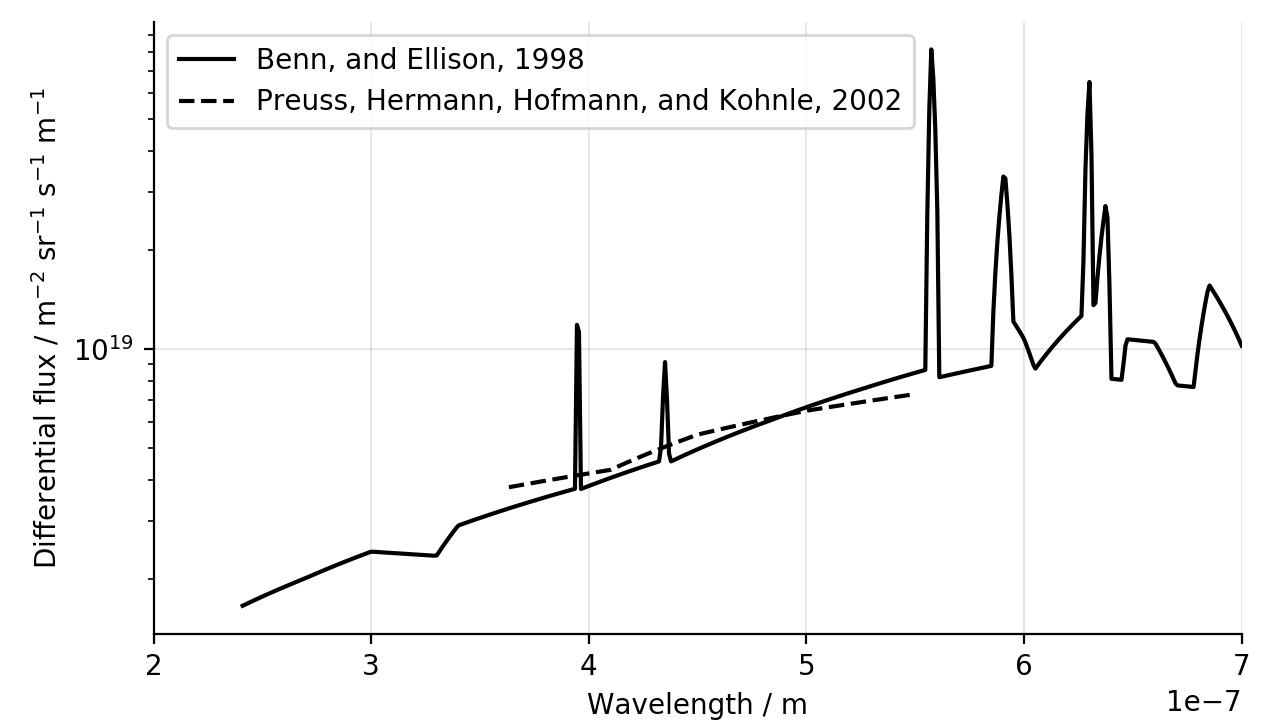
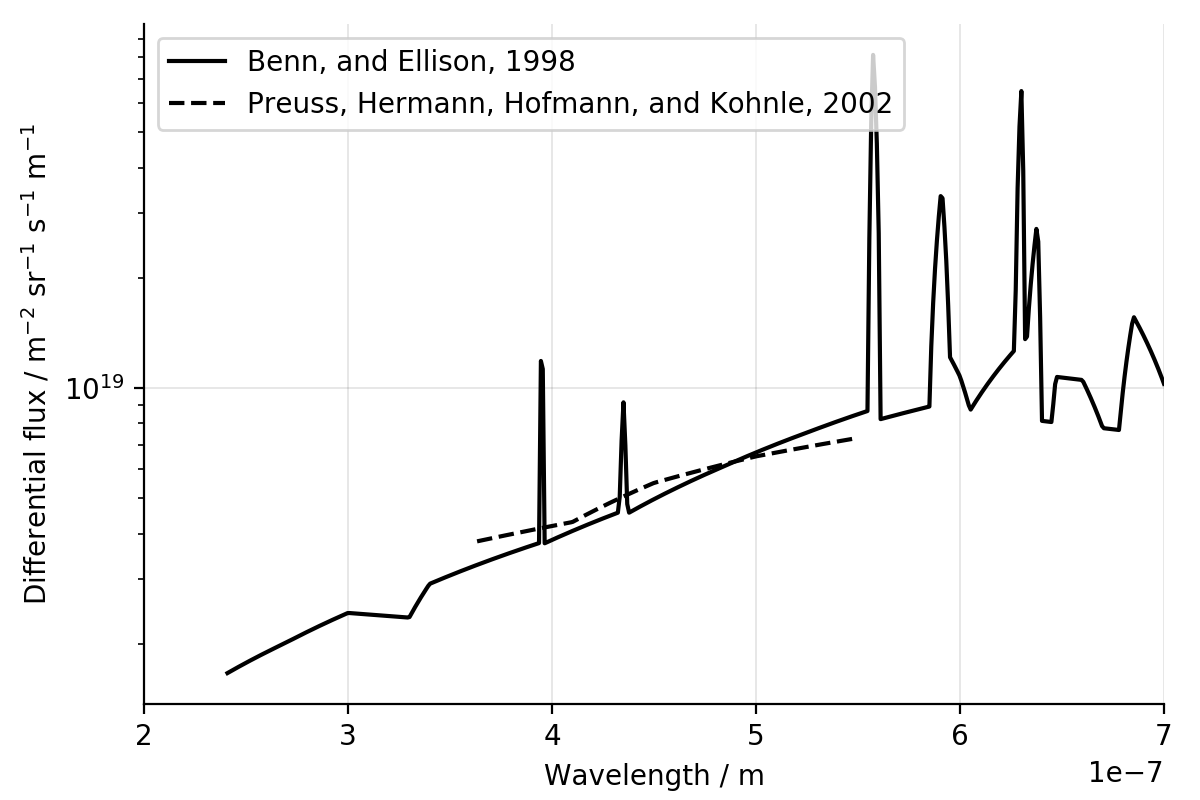
plot ccd, label-names

diff --git a/photon_spectra/plot.py b/photon_spectra/plot.py
@@ -10,8 +10,8 @@ equal = photon_spectra.make_equal_sampling(wavelengths=wavelengths)
 
 c = {
     'dpi': 200,
-    'rows': 720,
-    'cols': 1280,
+    'rows': 800,
+    'cols': 1200,
     'path': '',
     'axes_margins': [.12, .12, .85, .85]
 }
@@ -51,10 +51,9 @@ lcer70, = plt.plot(
     wavelengths,
     equal['cherenkov']['la_palma_2km_asl_zenith_70deg'],
     label='3TeV gamma, Cherenkov La Palma, 2200m asl, Zd: 70deg')
-ax.semilogy()
 ax.set_xlim([200e-9, 700e-9])
 ax.set_xlabel('Wavelength / m')
-ax.set_ylabel('relative / 1')
+ax.set_ylabel('Relative / 1')
 ax.spines['right'].set_visible(False)
 ax.spines['top'].set_visible(False)
 ax.grid(color='k', linestyle='-', linewidth=0.66, alpha=0.1)
@@ -74,7 +73,7 @@ lcer70, = plt.plot(
     label='Hamamatsu, r11920_100_05, CTA LST PMT')
 ax.set_xlim([200e-9, 700e-9])
 ax.set_xlabel('Wavelength / m')
-ax.set_ylabel('photon detection efficieny / 1')
+ax.set_ylabel('Photon detection efficieny / 1')
 ax.spines['right'].set_visible(False)
 ax.spines['top'].set_visible(False)
 ax.grid(color='k', linestyle='-', linewidth=0.66, alpha=0.1)
@@ -93,7 +92,7 @@ for name in equal['transmissivity']:
     legend_handles.append(leg)
 ax.set_xlim([200e-9, 700e-9])
 ax.set_xlabel('Wavelength / m')
-ax.set_ylabel('reflectivity / 1')
+ax.set_ylabel('Transmissivity / 1')
 ax.spines['right'].set_visible(False)
 ax.spines['top'].set_visible(False)
 ax.grid(color='k', linestyle='-', linewidth=0.66, alpha=0.1)
@@ -112,9 +111,29 @@ for mirror_name in equal['reflectivity']:
     legend_handles.append(leg)
 ax.set_xlim([200e-9, 700e-9])
 ax.set_xlabel('Wavelength / m')
-ax.set_ylabel('reflectivity / 1')
+ax.set_ylabel('Reflectivity / 1')
 ax.spines['right'].set_visible(False)
 ax.spines['top'].set_visible(False)
 ax.grid(color='k', linestyle='-', linewidth=0.66, alpha=0.1)
 ax.legend(handles=legend_handles)
 fig.savefig('./readme/cta_mirrors.png')
+
+
+fig = plt.figure(figsize=figsize, dpi=c['dpi'])
+ax = fig.add_axes(c['axes_margins'])
+legend_handles = []
+for name in equal['photon_detection_efficieny']:
+    if 'ccd' in name:
+        leg, = plt.plot(
+            wavelengths,
+            equal['photon_detection_efficieny'][name],
+            label=name)
+        legend_handles.append(leg)
+ax.set_xlim([200e-9, 700e-9])
+ax.set_xlabel('Wavelength / m')
+ax.set_ylabel('Photon detection efficieny / 1')
+ax.spines['right'].set_visible(False)
+ax.spines['top'].set_visible(False)
+ax.grid(color='k', linestyle='-', linewidth=0.66, alpha=0.1)
+ax.legend(handles=legend_handles)
+fig.savefig('./readme/ccd.png')
